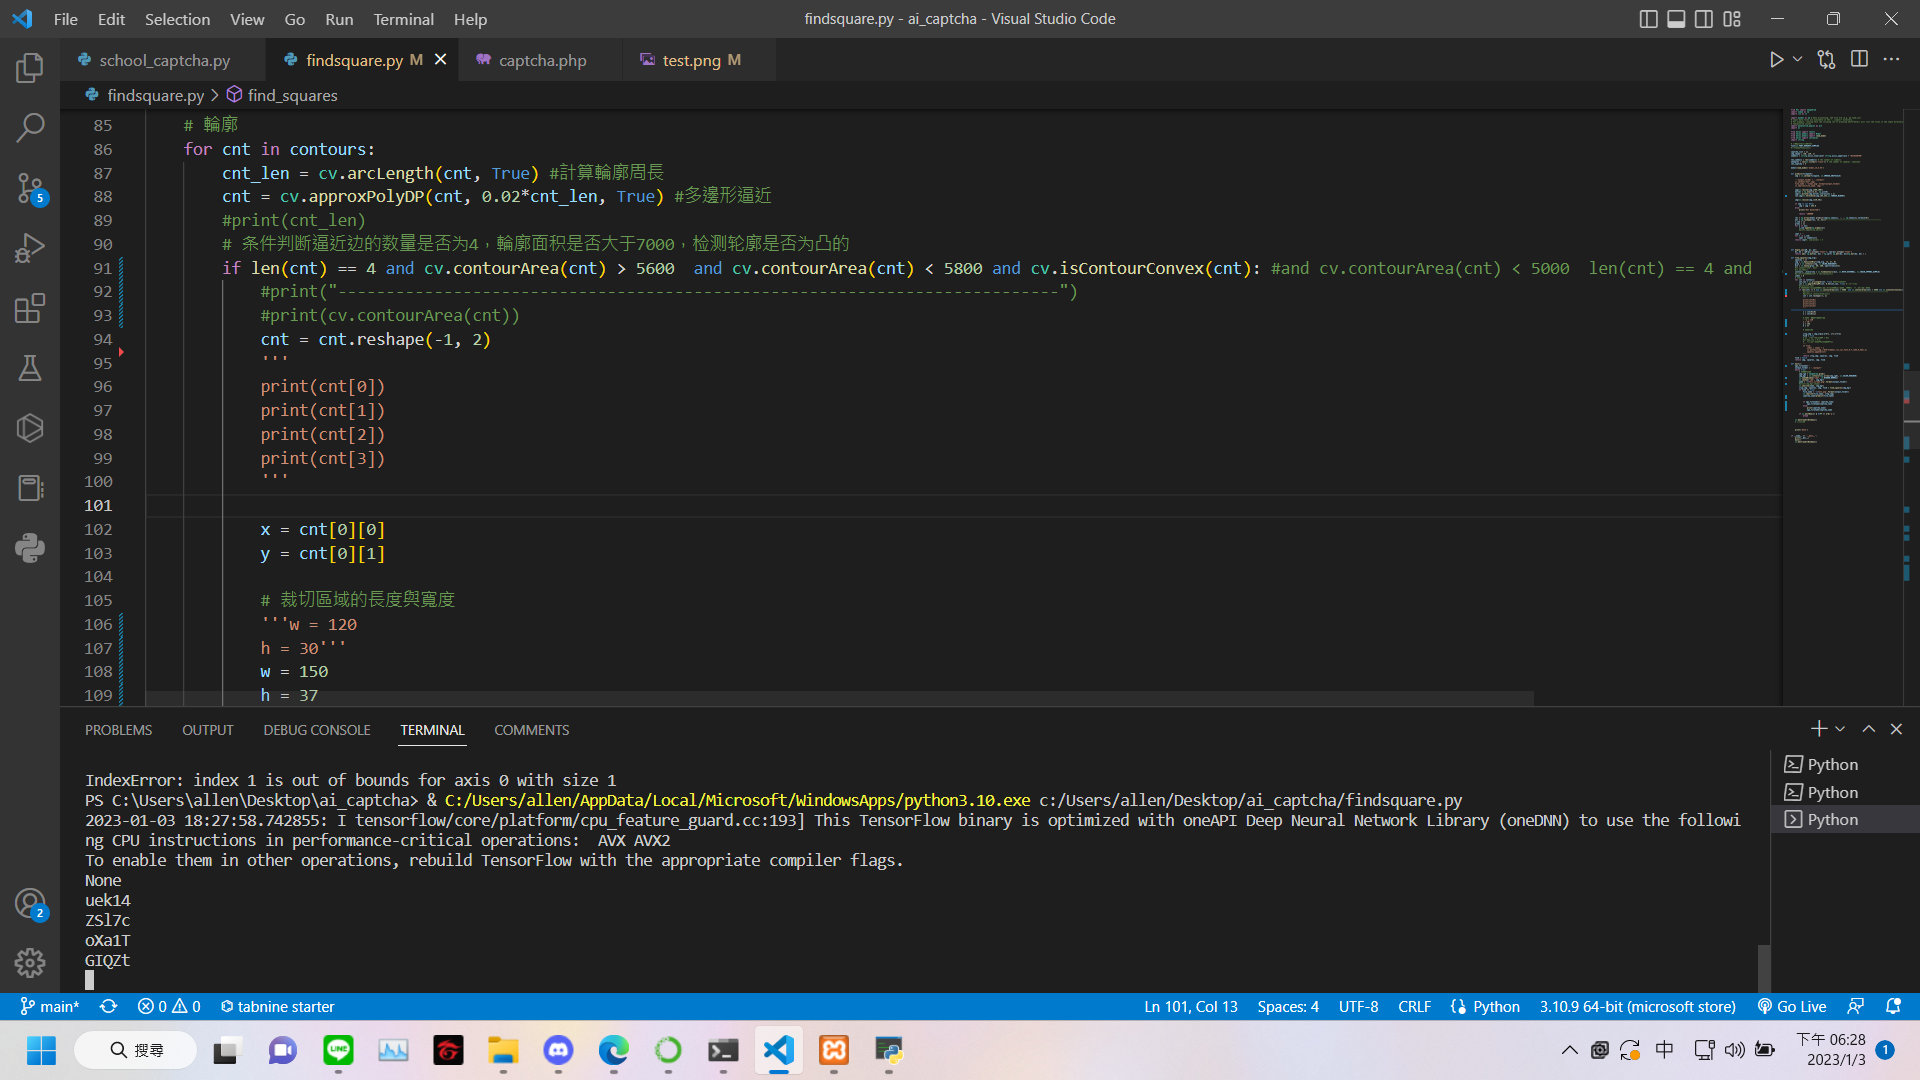
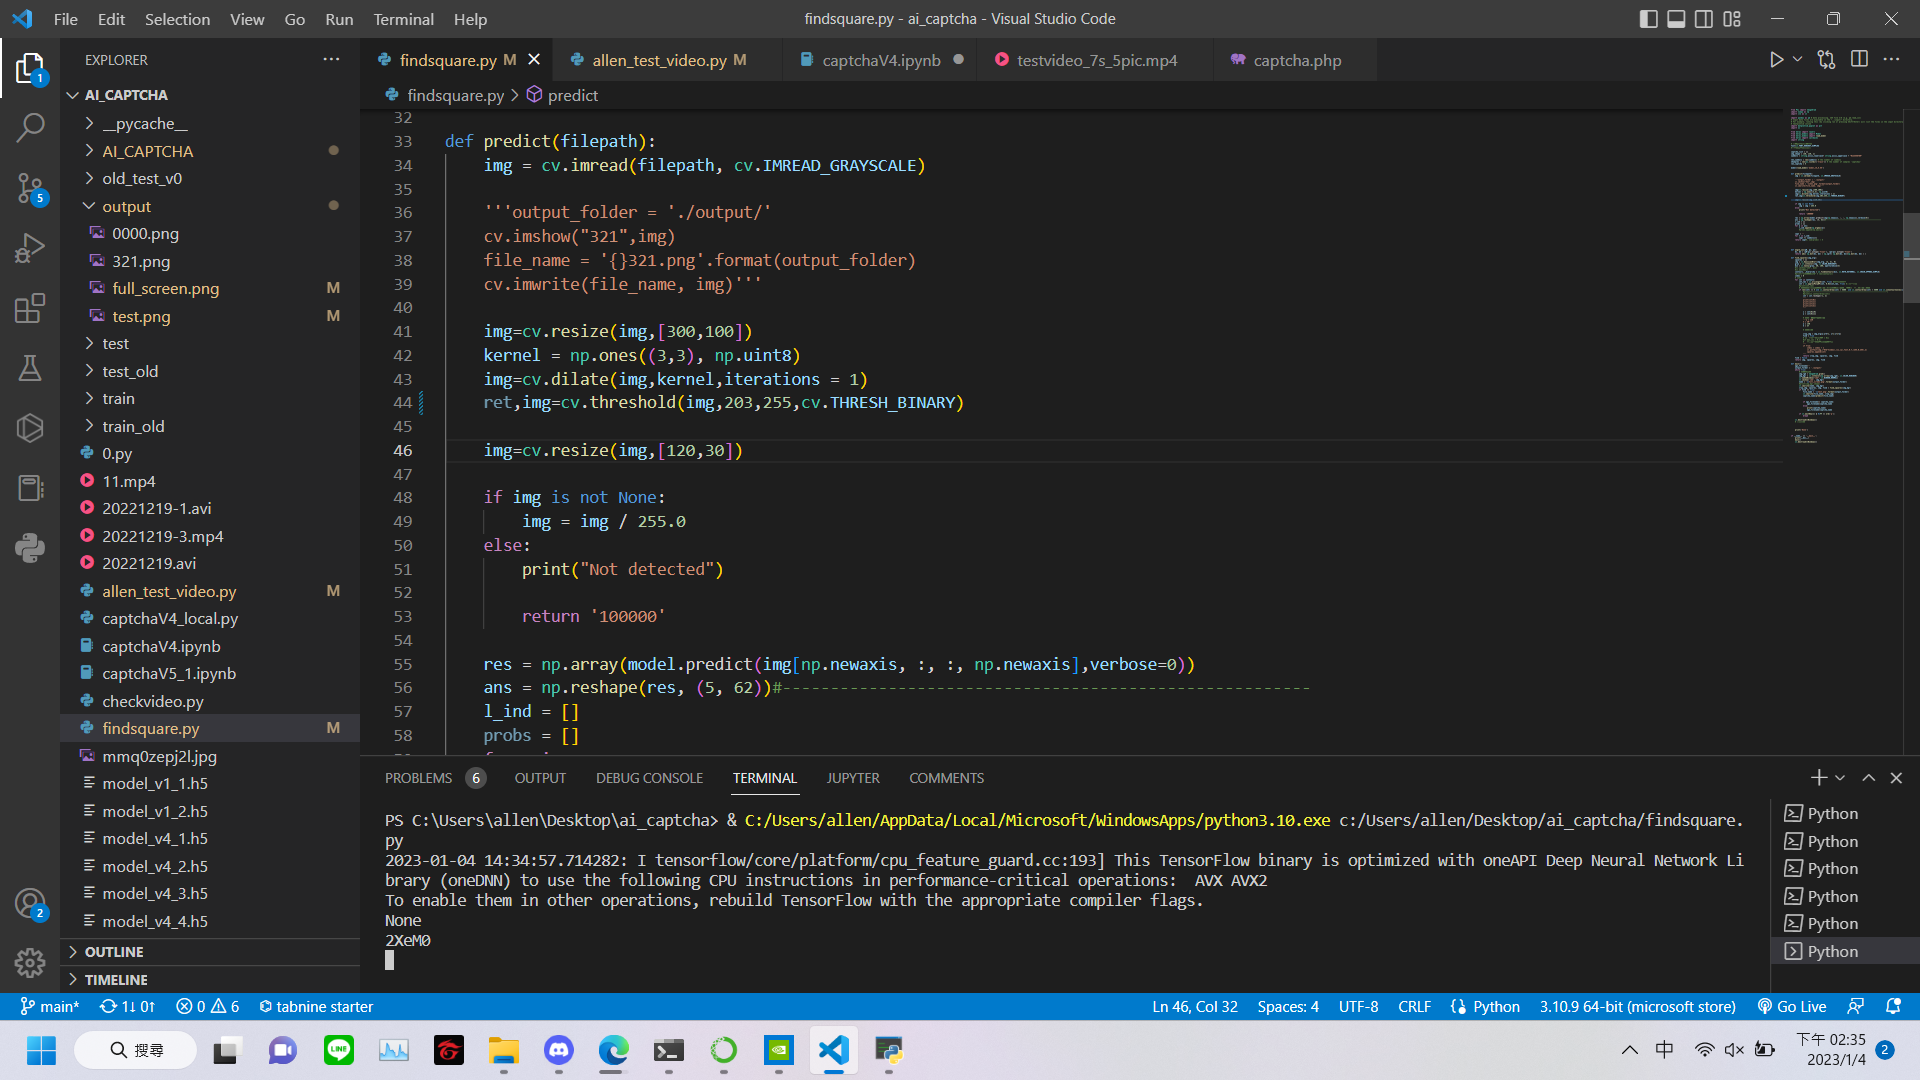
v1.0

diff --git a/allen_test_video.py b/allen_test_video.py
@@ -75,7 +75,7 @@ def find_squares(img_org):
     for cnt in contours:
         cnt_len = cv2.arcLength(cnt, True) #計算輪廓周長
         cnt = cv2.approxPolyDP(cnt, 0.02*cnt_len, True) #多邊形逼近
-        print(cnt_len)
+        #print(cnt_len)
         # 条件判断逼近边的数量是否为4，輪廓面积是否大于7000，檢测輪廓是否為凸的
         if len(cnt) == 4 and cv2.contourArea(cnt) > 700 and cv2.isContourConvex(cnt):
             M = cv2.moments(cnt) #計算輪廓的矩

diff --git a/findsquare.py b/findsquare.py
@@ -41,7 +41,7 @@ def predict(filepath):
     img=cv.resize(img,[300,100])
     kernel = np.ones((3,3), np.uint8)
     img=cv.dilate(img,kernel,iterations = 1)
-    ret,img=cv.threshold(img,195,255,cv.THRESH_BINARY)
+    ret,img=cv.threshold(img,203,255,cv.THRESH_BINARY)
 
     img=cv.resize(img,[120,30])
 
